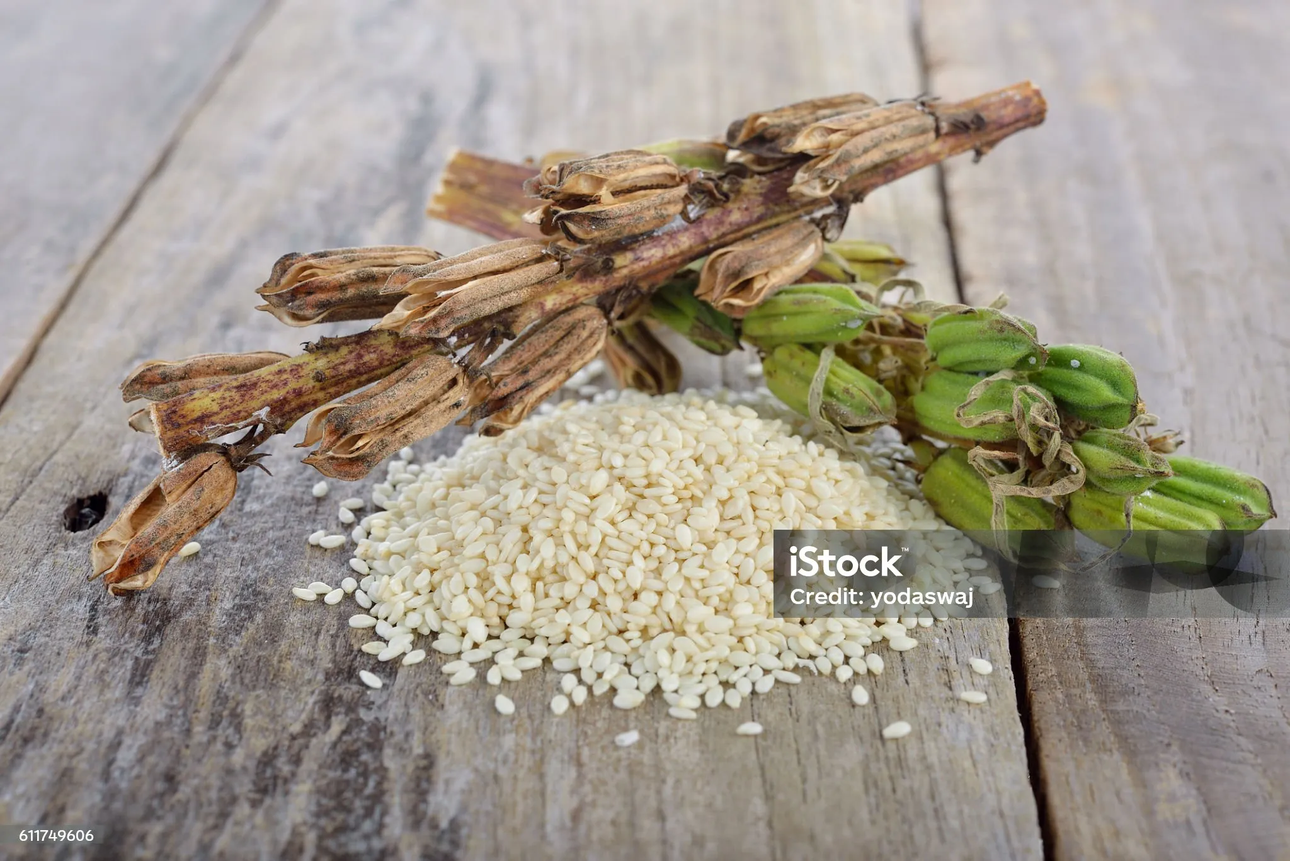
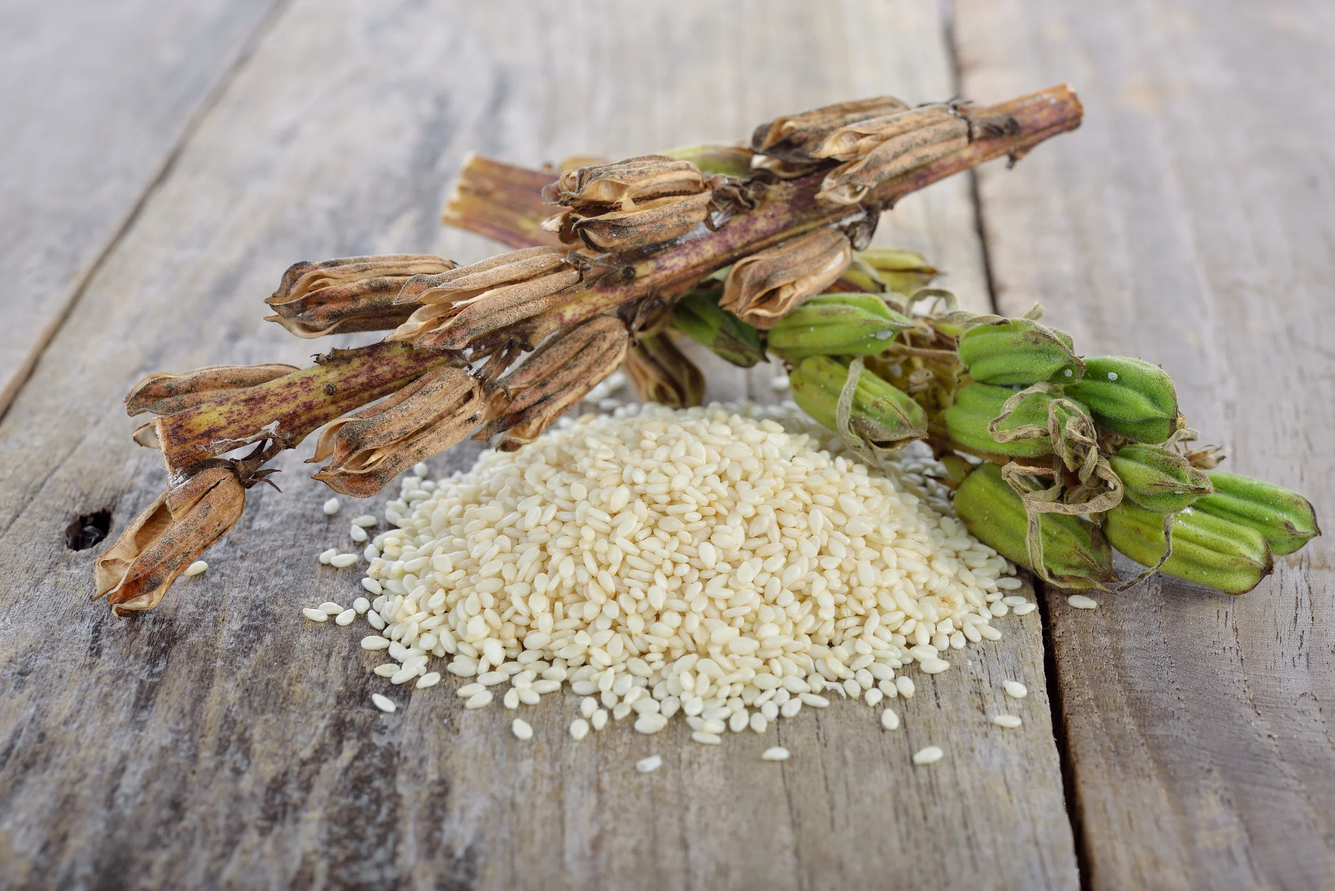
Update royal images

Changed region(s): [[0.5938, 0.6145, 1.0, 0.7374], [0.0, 0.9525, 0.0625, 0.9832]]

diff --git a/src/pages/Home.tsx b/src/pages/Home.tsx
@@ -19,10 +19,10 @@ import {
   faWheatAwn,
 } from "@fortawesome/free-solid-svg-icons";
 // import TestimonialSlider from "../ui/TestimonialSlider";
-import benefit1 from "../assets/additives_free.jpg";
-import benefit2 from "../assets/unrefined_oil.jpg";
-import benefit3 from "../assets/nutrient_rich.jpg";
-import benefit4 from "../assets/ethically_sourced.jpg";
+import benefit1 from "../assets/additives_free.webp";
+import benefit2 from "../assets/unrefined_oil.webp";
+import benefit3 from "../assets/nutrient_rich.webp";
+import benefit4 from "../assets/ethically_sourced.webp";
 // import { Callout } from "../ui/callout";
 // import ScrollFadeText from "../ui/ScrollFadeText";
 

diff --git a/src/pages/FlaxseedOil.tsx b/src/pages/FlaxseedOil.tsx
@@ -14,7 +14,7 @@ import {
 } from "@fortawesome/free-solid-svg-icons";
 import benefit1 from "../assets/example1_health_protection.jpg";
 import benefit2 from "../assets/example2_anti_inflammatory.jpg";
-import benefit3 from "../assets/example3_digestive_health.jpg";
+import benefit3 from "../assets/example3_digestive_health.webp";
 import benefit4 from "../assets/example4_skin_health.jpg";
 import benefit5 from "../assets/example5_cancer_protection.jpg";
 import Footer from "../ui/nav/footer";
